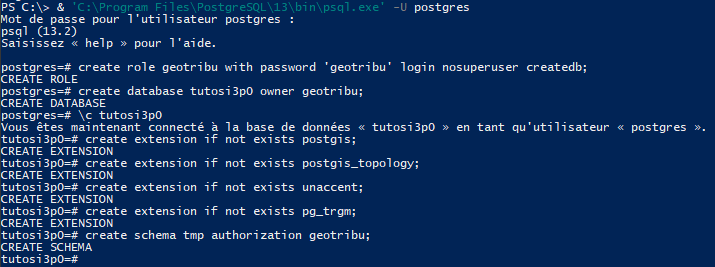
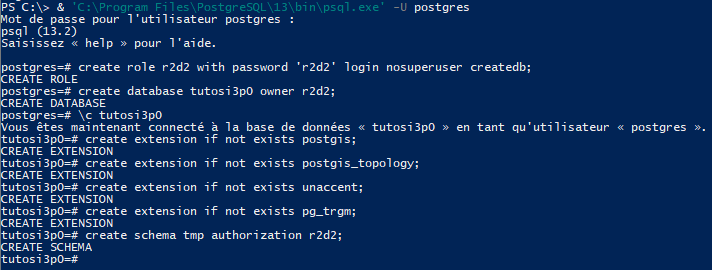
Mise en place de la doc

Changed region(s): [[0.0, 0.2097, 0.9888, 0.9888], [0.0, 0.0, 0.6798, 0.1798]]

diff --git a/docs/MD/API - Prise en main.md b/docs/MD/API - Prise en main.md
@@ -169,7 +169,7 @@ Le tutoriel qui suit s’appuie sur ce cas d’usage.
 
 ### <a name="_31"></a>3.1. Etape 1 - Préparer le contexte de travail
 
-_"Nombreuses les étapes préparatoires sont, de patience t’armer tu dois"_. Je plaisante même s’il est vrai qu’il y a plusieurs choses à faire préalablement à l’utilisation de l’API. J’ai essayé de détailler ici les différents "level" à passer pour que tu sois ensuite opérationnel pour la rédaction de scripts PowerShell, c’est donc un peu verbeux mais pas forcément très long.
+_"Nombreuses les étapes préparatoires sont, de patience t’armer tu dois"_. Il y a effectivement plusieurs choses à faire préalablement à l’utilisation de l’API. J’ai essayé de détailler ici les différents "level" à passer pour que tu sois ensuite opérationnel pour la rédaction de scripts PowerShell, c’est donc un peu verbeux mais pas forcément très long.
 
 #### <a name="_311"></a>3.1.1. Récupérer l’API SI3P0
 
@@ -196,11 +196,11 @@ Je recommande également de créer dans cette base (et ensuite dans la base de p
 Comme il faut ajouter des extensions à cette base, il te faudra être connecté en tant que superuser.
 
 ```sql
--- création d'un utilisateur geotribu
-create role geotribu with password 'geotribu' login nosuperuser createdb;
+-- création d'un utilisateur
+create role r2d2 with password 'r2d2' login nosuperuser createdb;
 
--- création de la base de données de tests
-create database tutosi3p0 owner geotribu;
+-- création de la base de données de test
+create database tutosi3p0 owner r2d2;
 
 -- connexion à la base tutosi3p0
 \c tutosi3p0
@@ -213,12 +213,12 @@ create extension if not exists postgis_topology;
 -- cf. https://www.postgresql.org/docs/13/unaccent.html
 create extension if not exists unaccent;
 
--- installation de l'extension pg_trgm (pour disposer de la fonction similarity)
+-- création de l'extension pg_trgm (pour disposer de la fonction similarity)
 -- https://www.postgresql.org/docs/13/pgtrgm.html
 create extension if not exists pg_trgm;
 
 -- création du schéma temporaire
-create schema tmp authorization geotribu;
+create schema tmp authorization r2d2;
 ```
 
 ![Création BDD](../Ressources/API - Prise en main/Création BDD.png)
